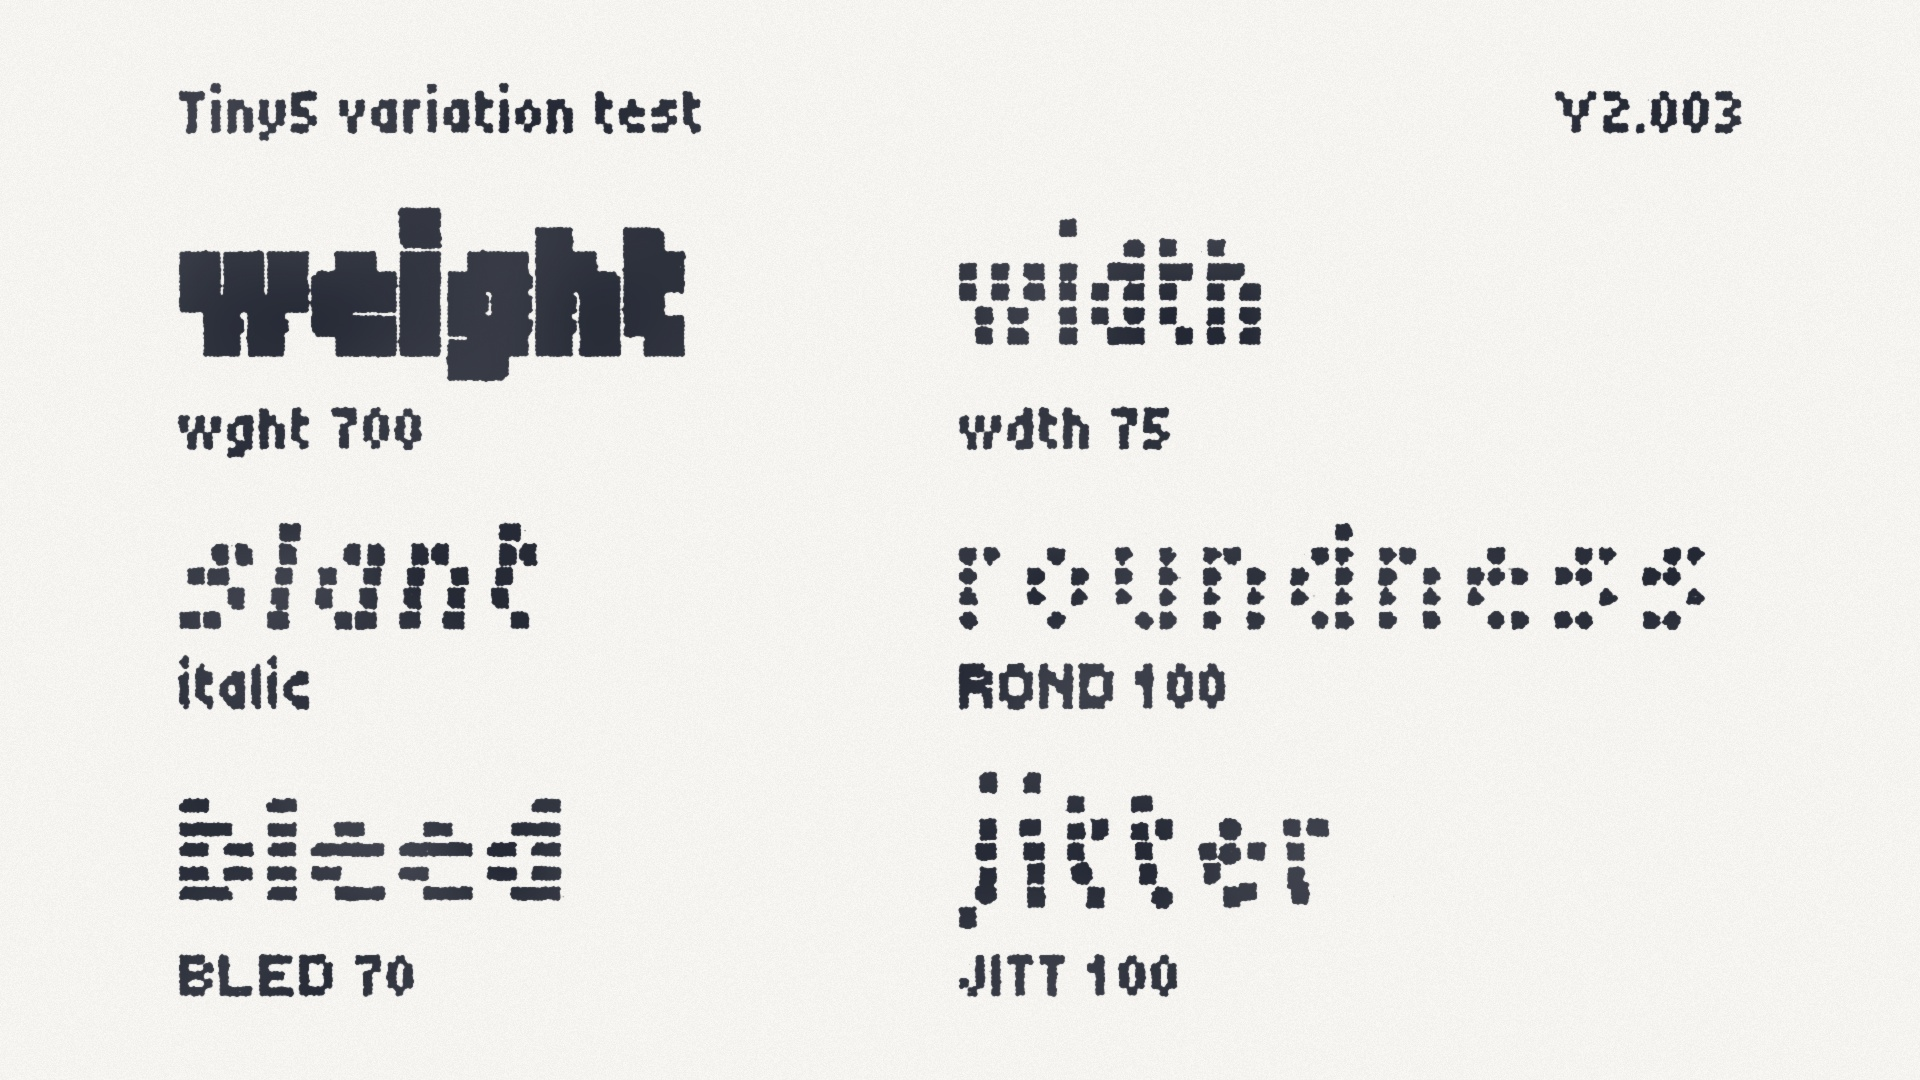
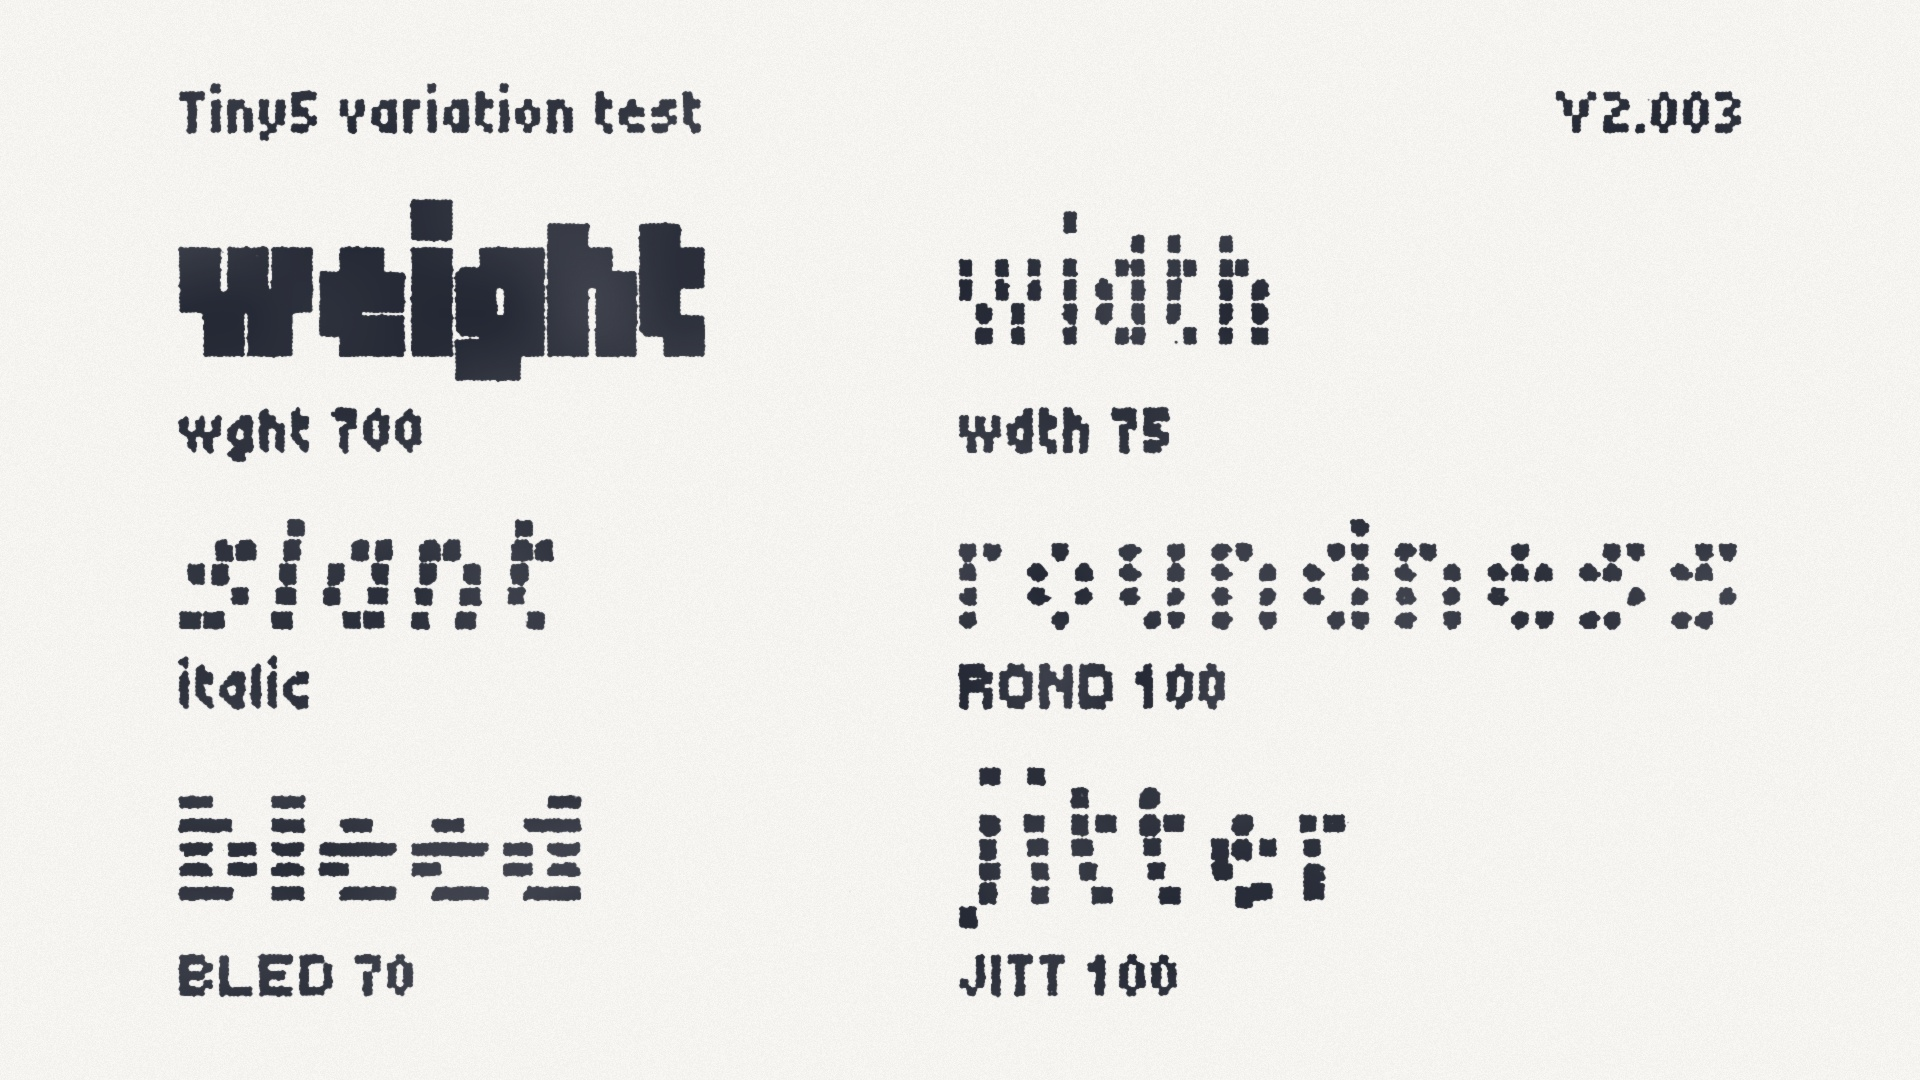
2.003

diff --git a/documentation/build-specimen.py b/documentation/build-specimen.py
@@ -858,7 +858,7 @@ INKJET_SATELLITES = 0.03        # Chance of a stray satellite drop per edge dot
 # equal columns across the measure it leaves
 PROOF_MARGIN_X = 181            # side margin, in image pixels
 PROOF_MARGIN_Y = 84             # head and foot margin, in image pixels
-PROOF_WORD_SCALE = 22           # the axis name, in image pixels per font pixel
+PROOF_WORD_SCALE = 23           # the axis name, in image pixels per font pixel
 PROOF_TAG_SCALE = 8             # its tag, and the running head
 PROOF_TAG_GAP = 30              # ink gap from an axis name down to its tag
 
